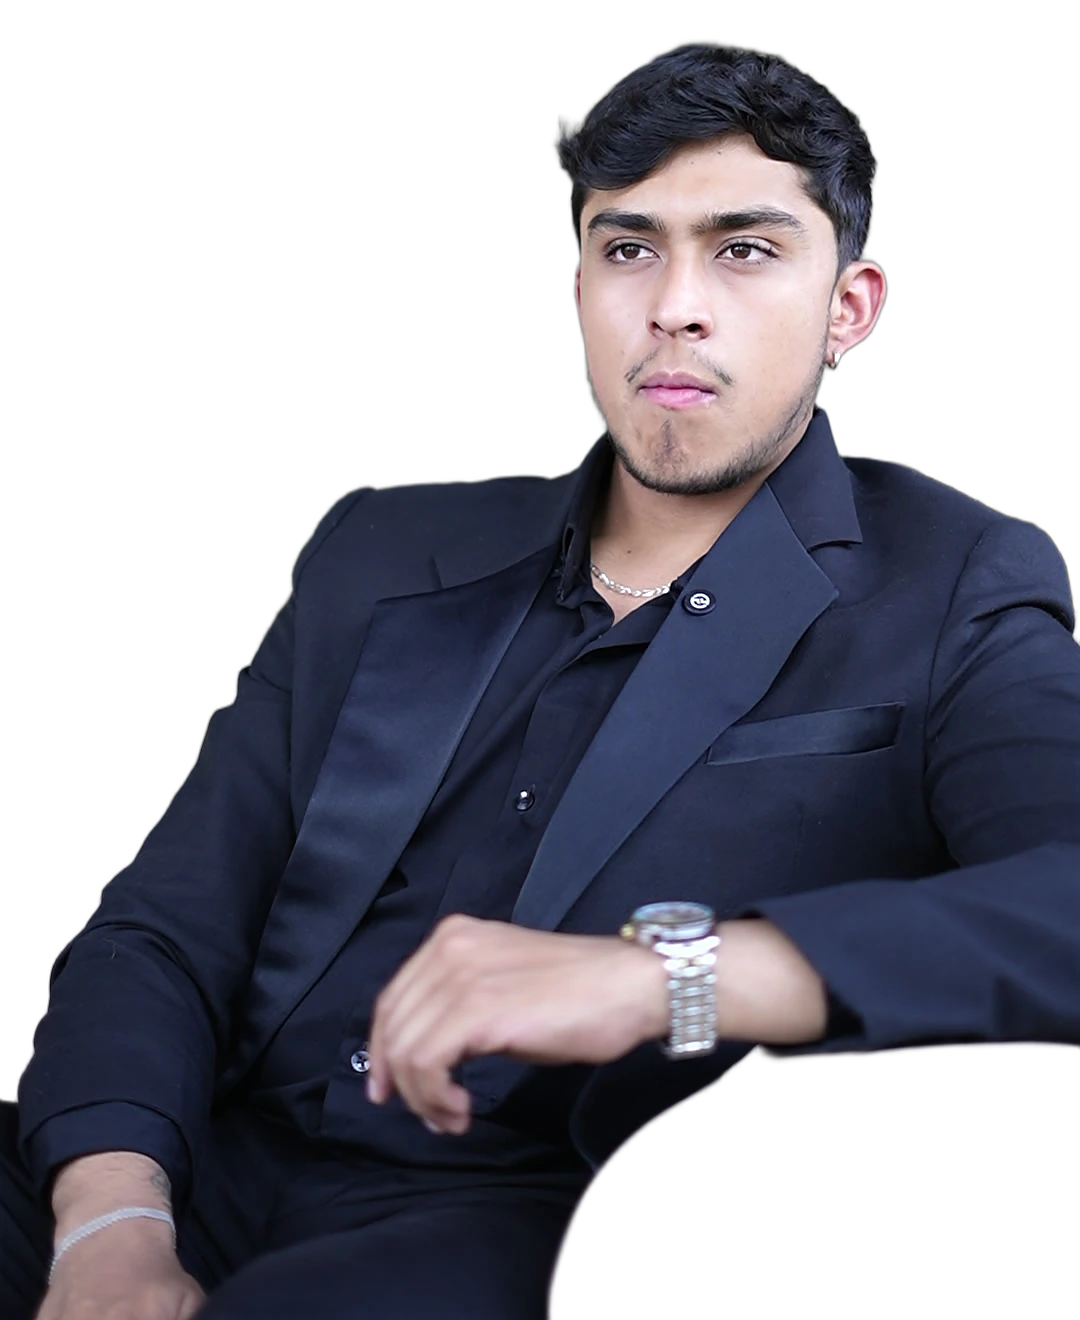
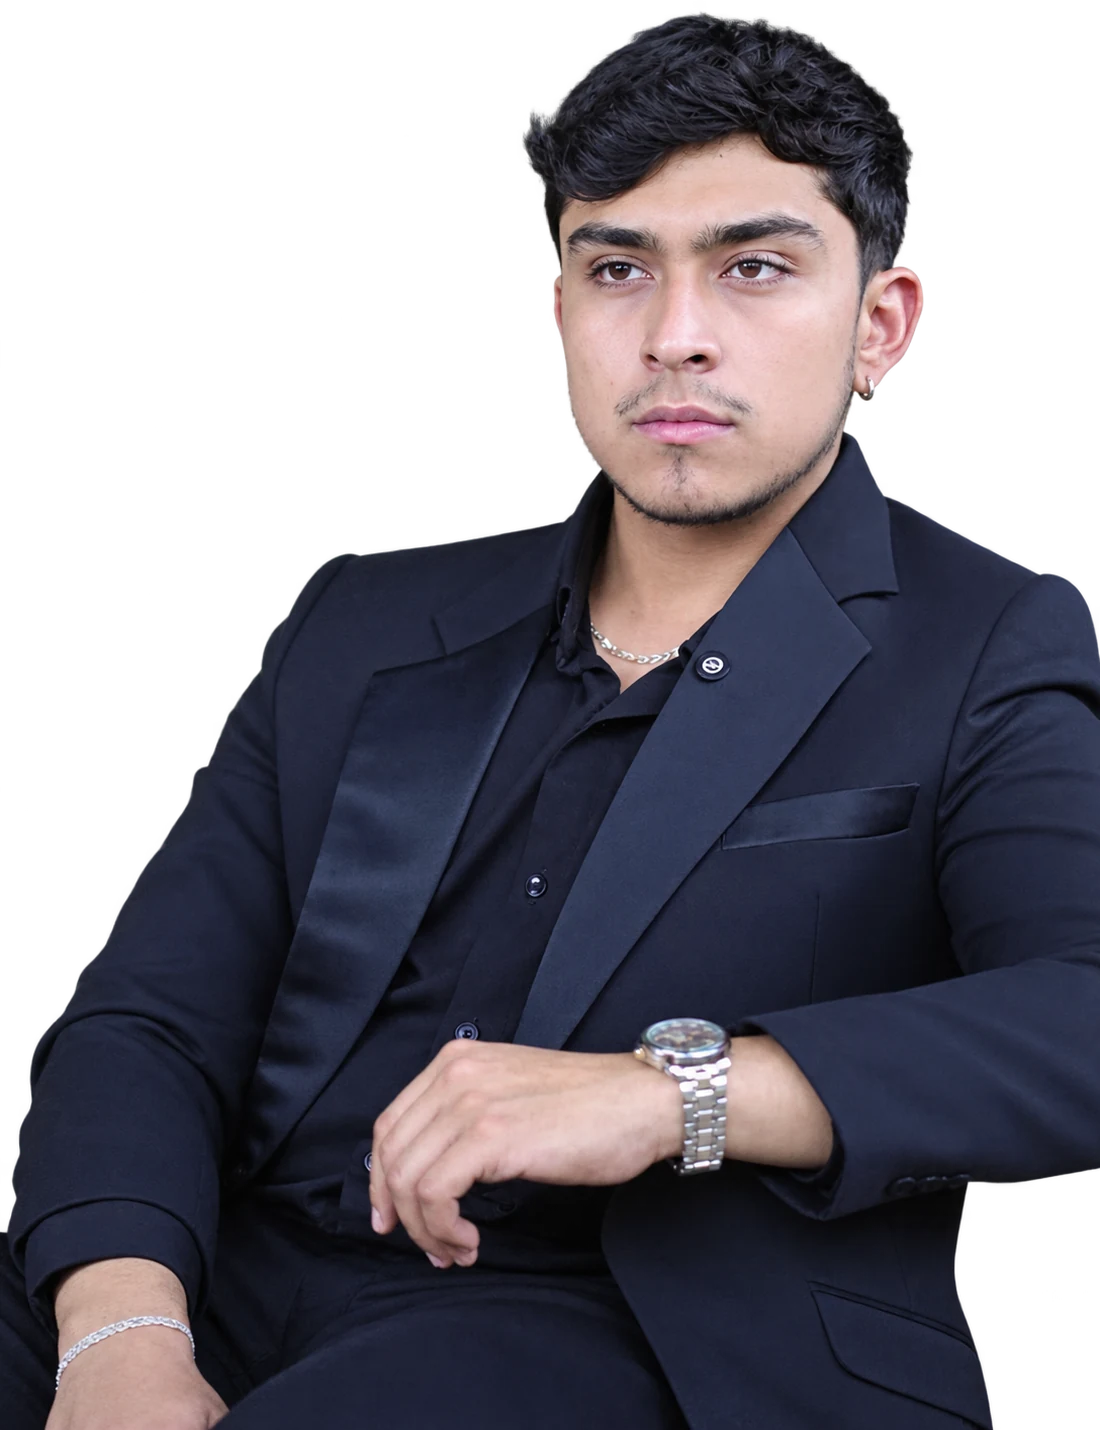
fix: versionar CSS/JS contra la caché de Pages y nuevo retrato de Ricardo
- index.html carga cada CSS y JS con ?v=20261110a. GitHub Pages los
  sirve con max-age=600 y un navegador con calculator.js viejo dejaba
  la proyección en "—" tras el despliegue.
- calculator.js omite campos sin formato en vez de detener el cálculo y
  muestra "ventas necesarias" sin redondear hacia arriba (cuadra con el
  presupuesto).
- Nuevo retrato de traje negro en la sección de Ricardo
  (hero-retrato.webp, 1100×1430, 124 KB), también versionado.
- README: nota para subir la versión en cada despliegue.

diff --git a/index.html b/index.html
@@ -15,13 +15,13 @@
   <link rel="preconnect" href="https://fonts.gstatic.com" crossorigin />
   <link href="https://fonts.googleapis.com/css2?family=Archivo:wdth,wght@62..125,400..900&family=Inter:wght@400;500;600&family=Instrument+Serif:ital@0;1&family=Mrs+Saint+Delafield&display=swap" rel="stylesheet" />
   <link rel="preload" as="image" href="assets/cut/hero-frontal.webp" />
-  <link rel="stylesheet" href="css/styles.css" />
-  <link rel="stylesheet" href="css/sections.css" />
-  <link rel="stylesheet" href="css/editorial.css" />
-  <link rel="stylesheet" href="css/editorial-sections.css" />
-  <link rel="stylesheet" href="css/editorial-social.css" />
-  <link rel="stylesheet" href="css/animations.css" />
-  <link rel="stylesheet" href="css/atidoa.css" />
+  <link rel="stylesheet" href="css/styles.css?v=20261110a" />
+  <link rel="stylesheet" href="css/sections.css?v=20261110a" />
+  <link rel="stylesheet" href="css/editorial.css?v=20261110a" />
+  <link rel="stylesheet" href="css/editorial-sections.css?v=20261110a" />
+  <link rel="stylesheet" href="css/editorial-social.css?v=20261110a" />
+  <link rel="stylesheet" href="css/animations.css?v=20261110a" />
+  <link rel="stylesheet" href="css/atidoa.css?v=20261110a" />
   <script>
     /* Intro con la firma: solo la primera visita de la sesión y sin movimiento reducido */
     (function () {
@@ -277,7 +277,7 @@
       <div class="contour" data-contour aria-hidden="true"></div>
       <div class="ed-mentor-stage">
         <p class="ed-mentor-name" aria-hidden="true" data-parallax="mentor"><span class="row row-serif" data-drift="1">Ricardo</span><span class="row row-bold" data-drift="-1">ARROYO</span></p>
-        <img class="ed-mentor-cut" src="assets/cut/hero-retrato.webp" alt="Ricardo Arroyo" width="1080" height="1320" loading="lazy" />
+        <img class="ed-mentor-cut" src="assets/cut/hero-retrato.webp?v=20261110a" alt="Ricardo Arroyo de traje negro" width="1100" height="1430" loading="lazy" />
         <div class="ed-mentor-sign" data-signature="Ricardo Arroyo" data-sig-flourish aria-hidden="true"></div>
       </div>
       <div class="ed-mentor-body wrap">
@@ -565,16 +565,16 @@
   <div class="toast" data-toast role="status" aria-live="polite"></div>
 
   <script src="https://unpkg.com/lenis@1.1.13/dist/lenis.min.js"></script>
-  <script src="js/config.js"></script>
-  <script src="js/content.js"></script>
-  <script src="js/tracking.js"></script>
-  <script src="js/motion.js"></script>
-  <script src="js/render.js"></script>
-  <script src="js/calculator.js"></script>
-  <script src="js/vsl.js"></script>
-  <script src="js/offer.js"></script>
-  <script src="js/editorial.js"></script>
-  <script src="js/animations.js"></script>
-  <script src="js/funnel.js"></script>
+  <script src="js/config.js?v=20261110a"></script>
+  <script src="js/content.js?v=20261110a"></script>
+  <script src="js/tracking.js?v=20261110a"></script>
+  <script src="js/motion.js?v=20261110a"></script>
+  <script src="js/render.js?v=20261110a"></script>
+  <script src="js/calculator.js?v=20261110a"></script>
+  <script src="js/vsl.js?v=20261110a"></script>
+  <script src="js/offer.js?v=20261110a"></script>
+  <script src="js/editorial.js?v=20261110a"></script>
+  <script src="js/animations.js?v=20261110a"></script>
+  <script src="js/funnel.js?v=20261110a"></script>
 </body>
 </html>

diff --git a/js/calculator.js b/js/calculator.js
@@ -54,11 +54,12 @@
       const values = Object.freeze(Object.fromEntries(inputs.map((i) => [i.name, Number(i.value)])));
       inputs.forEach((i) => {
         i.style.setProperty("--fill", ((i.value - i.min) / (i.max - i.min)) * 100 + "%");
-        out(i.name).textContent = labels[i.name](Number(i.value));
+        const o = out(i.name), fmt = labels[i.name];
+        if (o && fmt) o.textContent = fmt(Number(i.value));
       });
       const r = compute(values);
       animateNumber(res("budget"), r.budget, money.format);
-      animateNumber(res("units"), r.units, (x) => num.format(Math.ceil(x * 10) / 10));
+      animateNumber(res("units"), r.units, (x) => num.format(x));
       animateNumber(res("roas"), r.roas, (x) => x.toFixed(1) + "×");
       animateNumber(res("dayBudget"), r.dayBudget, money.format);
       animateNumber(res("dayOrders"), r.dayOrders, (x) => num.format(x));

diff --git a/README.md b/README.md
@@ -77,3 +77,6 @@ Estas referencias orientan la estructura; no demuestran una tasa de conversión 
 - Casos publicados con datos del cliente: Dr. Felipe Zambrano (octubre 2026) y Dra. Andrea Mora (reporte semanal). Confirmar autorización de cada cliente para mostrar su nombre y cifras.
 - Pendiente: entrevista de La Cava del Cerdo (Drive bloqueó la descarga por cuota), cifras de B Nova, precio final y hora exacta de la asesoría.
 - Fotos profesionales del Drive: `assets/gallery/profesional.webp` (en la galería) y `assets/gallery/campo.webp` (sin uso por ahora).
+
+## Caché en producción
+GitHub Pages sirve CSS y JS con `Cache-Control: max-age=600`. Para que nadie mezcle un HTML nuevo con un JS viejo, `index.html` carga cada archivo con `?v=AAAAMMDDx`. **En cada despliegue que cambie CSS o JS, sube ese valor** (buscar y reemplazar `?v=` en `index.html`).
